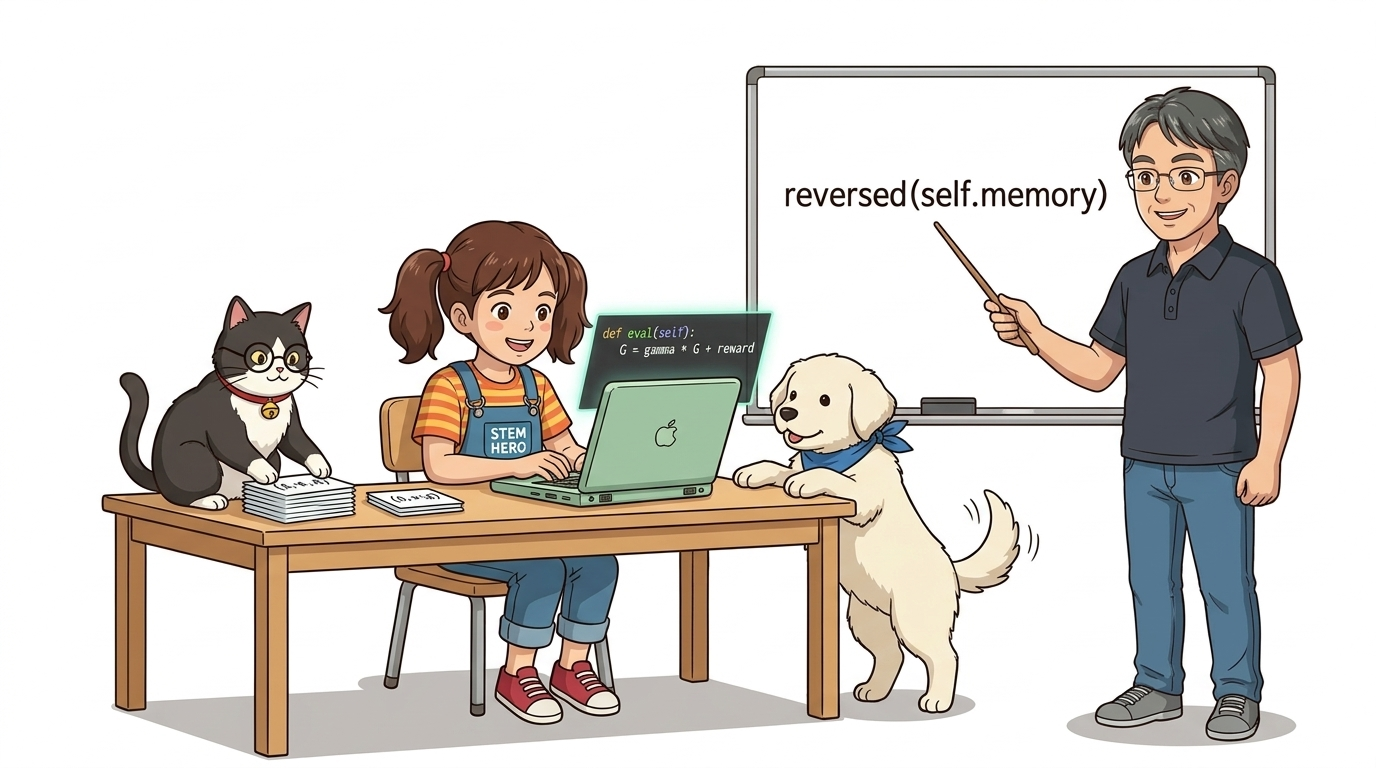
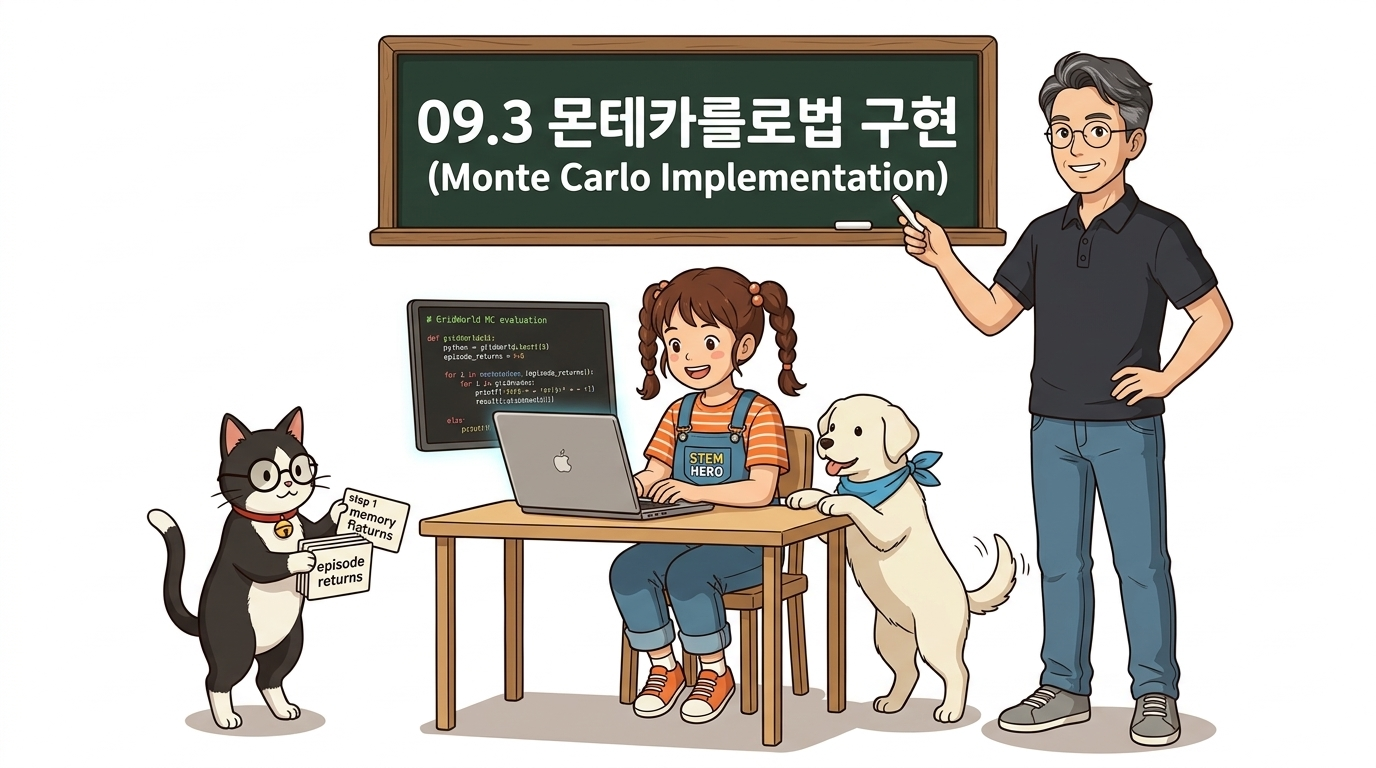
feat(ch09): add prominent chapter titles to all 16:9 covers and insert into index.md (9.0~9.6)

diff --git a/docs/09_몬테카를로법/9_0_수학적기초/index.html b/docs/09_몬테카를로법/9_0_수학적기초/index.html
@@ -631,6 +631,8 @@
         <div class="bd-content ps-lg-4">
             <h1 id="090-몬테카를로법의-수학적-기초와-역사적-유래">09.0 몬테카를로법의 수학적 기초와 역사적 유래</h1>
 
+<p><img src="./9_0_수학적기초.png" alt="09.0 몬테카를로법의 수학적 기초와 역사적 유래" /></p>
+
 <p><img src="./img/01_monte_carlo_history_lecture.png" alt="몬테카를로 역사 인트로" />
 <strong>그림 09-0-1</strong> 이호진 교수님의 몬테카를로법 역사와 원리 특강 — 조교 지니와 함께 룰렛과 컴퓨터의 만남을 강의하고 경청하는 도로시와 토토 (16:9 와이드)</p>
 

diff --git a/docs/09_몬테카를로법/9_2_몬테카를로법으로_정책_평가하기/index.html b/docs/09_몬테카를로법/9_2_몬테카를로법으로_정책_평가하기/index.html
@@ -631,6 +631,8 @@
         <div class="bd-content ps-lg-4">
             <h1 id="092-몬테카를로법으로-정책-평가하기">09.2 몬테카를로법으로 정책 평가하기</h1>
 
+<p><img src="./9_2_몬테카를로법으로_정책_평가하기.png" alt="09.2 몬테카를로법으로 정책 평가하기" /></p>
+
 <p><img src="./img/01_stepping_stones_policy_evaluation.png" alt="몬테카를로 정책 평가 인트로" />
 <strong>그림 09-2-1</strong> 징검다리를 건너가며 에피소드를 완주하고 각 칸의 상태 가치 카드 V(s)를 갱신해나가는 도로시와 연구실 친구들 (16:9 와이드)</p>
 

diff --git a/docs/09_몬테카를로법/9_4_몬테카를로법으로_정책_제어하기/index.html b/docs/09_몬테카를로법/9_4_몬테카를로법으로_정책_제어하기/index.html
@@ -631,6 +631,8 @@
         <div class="bd-content ps-lg-4">
             <h1 id="094-몬테카를로법으로-정책-제어하기">09.4 몬테카를로법으로 정책 제어하기</h1>
 
+<p><img src="./9_4_몬테카를로법으로_정책_제어하기.png" alt="09.4 몬테카를로법으로 정책 제어하기" /></p>
+
 <p><img src="./img/01_mc_control_intro.png" alt="몬테카를로 정책 제어 인트로" />
 <strong>그림 09-4-1</strong> 탐색-이용(Exploration-Exploitation) 갈림길에서 지니의 입실론 주사위 마법을 보며 나아갈 길을 결정하는 도로시</p>
 

diff --git a/docs/09_몬테카를로법/9_5_오프-정책과_중요도_샘플링/index.html b/docs/09_몬테카를로법/9_5_오프-정책과_중요도_샘플링/index.html
@@ -631,6 +631,8 @@
         <div class="bd-content ps-lg-4">
             <h1 id="095-오프-정책과-중요도-샘플링">09.5 오프-정책과 중요도 샘플링</h1>
 
+<p><img src="./9_5_오프-정책과_중요도_샘플링.png" alt="09.5 오프-정책과 중요도 샘플링" /></p>
+
 <p><img src="./img/01_off_policy_intro.png" alt="중요도 샘플링 인트로" />
 <strong>그림 09-5-1</strong> 탐험 지도(Behavior Policy)와 타깃 지도(Target Policy)의 확률 비율을 마법 저울에 올리고 오프-정책을 계산하는 지니와 도로시</p>
 

diff --git a/docs/09_몬테카를로법/9_1_몬테카를로법_기초/index.html b/docs/09_몬테카를로법/9_1_몬테카를로법_기초/index.html
@@ -631,6 +631,8 @@
         <div class="bd-content ps-lg-4">
             <h1 id="091-몬테카를로법-기초">09.1 몬테카를로법 기초</h1>
 
+<p><img src="./9_1_몬테카를로법_기초.png" alt="09.1 몬테카를로법 기초" /></p>
+
 <p><img src="./img/01_model_known_vs_unknown.png" alt="환경 모델의 비교" />
 <strong>그림 09-1-1</strong> 투명한 규칙으로 시뮬레이션 가능한 알려진 환경 모델과 수식을 알 수 없어 직접 부딪혀야 하는 블랙박스 미지 모델의 비교 (16:9 와이드)</p>
 

diff --git a/docs/09_몬테카를로법/9_3_몬테카를로법_구현/index.html b/docs/09_몬테카를로법/9_3_몬테카를로법_구현/index.html
@@ -631,6 +631,8 @@
         <div class="bd-content ps-lg-4">
             <h1 id="093-몬테카를로법-구현">09.3 몬테카를로법 구현</h1>
 
+<p><img src="./9_3_몬테카를로법_구현.png" alt="09.3 몬테카를로법 구현" /></p>
+
 <p><img src="./img/01_mc_implementation_intro.png" alt="몬테카를로 구현 인트로" />
 <strong>그림 09-3-1</strong> 그리드월드 조작 조종 패드를 쥐고 모니터를 보며, RandomAgent와 eval() 코드 연동을 실행하는 도로시와 지니</p>
 

diff --git a/docs/09_몬테카를로법/9_6_정리/index.html b/docs/09_몬테카를로법/9_6_정리/index.html
@@ -631,6 +631,8 @@
         <div class="bd-content ps-lg-4">
             <h1 id="096-정리">09.6 정리</h1>
 
+<p><img src="./9_6_정리.png" alt="09.6 정리" /></p>
+
 <p><img src="./img/01_ch9_grand_summary_intro.png" alt="9장 정리 인트로" />
 <strong>그림 09-6-1</strong> 몬테카를로 정상에 올라 경험 학습의 전체 지도를 벅찬 감동으로 내려다보는 도로시, 지니, 토토</p>
 

diff --git a/src/09_몬테카를로법/9_0_수학적기초/index.md b/src/09_몬테카를로법/9_0_수학적기초/index.md
@@ -5,6 +5,8 @@ title: "09.0 몬테카를로법의 수학적 기초와 역사적 유래"
 
 # 09.0 몬테카를로법의 수학적 기초와 역사적 유래
 
+![09.0 몬테카를로법의 수학적 기초와 역사적 유래](./9_0_수학적기초.png)
+
 ![몬테카를로 역사 인트로](./img/01_monte_carlo_history_lecture.png)
 **그림 09-0-1** 이호진 교수님의 몬테카를로법 역사와 원리 특강 — 조교 지니와 함께 룰렛과 컴퓨터의 만남을 강의하고 경청하는 도로시와 토토 (16:9 와이드)
 

diff --git a/src/09_몬테카를로법/9_2_몬테카를로법으로_정책_평가하기/index.md b/src/09_몬테카를로법/9_2_몬테카를로법으로_정책_평가하기/index.md
@@ -5,6 +5,8 @@ title: "09.2 몬테카를로법으로 정책 평가하기"
 
 # 09.2 몬테카를로법으로 정책 평가하기
 
+![09.2 몬테카를로법으로 정책 평가하기](./9_2_몬테카를로법으로_정책_평가하기.png)
+
 ![몬테카를로 정책 평가 인트로](./img/01_stepping_stones_policy_evaluation.png)
 **그림 09-2-1** 징검다리를 건너가며 에피소드를 완주하고 각 칸의 상태 가치 카드 V(s)를 갱신해나가는 도로시와 연구실 친구들 (16:9 와이드)
 

diff --git a/src/09_몬테카를로법/9_4_몬테카를로법으로_정책_제어하기/index.md b/src/09_몬테카를로법/9_4_몬테카를로법으로_정책_제어하기/index.md
@@ -5,6 +5,8 @@ title: "09.4 몬테카를로법으로 정책 제어하기"
 
 # 09.4 몬테카를로법으로 정책 제어하기
 
+![09.4 몬테카를로법으로 정책 제어하기](./9_4_몬테카를로법으로_정책_제어하기.png)
+
 ![몬테카를로 정책 제어 인트로](./img/01_mc_control_intro.png)
 **그림 09-4-1** 탐색-이용(Exploration-Exploitation) 갈림길에서 지니의 입실론 주사위 마법을 보며 나아갈 길을 결정하는 도로시
 

diff --git a/src/09_몬테카를로법/9_5_오프-정책과_중요도_샘플링/index.md b/src/09_몬테카를로법/9_5_오프-정책과_중요도_샘플링/index.md
@@ -5,6 +5,8 @@ title: "09.5 오프-정책과 중요도 샘플링"
 
 # 09.5 오프-정책과 중요도 샘플링
 
+![09.5 오프-정책과 중요도 샘플링](./9_5_오프-정책과_중요도_샘플링.png)
+
 ![중요도 샘플링 인트로](./img/01_off_policy_intro.png)
 **그림 09-5-1** 탐험 지도(Behavior Policy)와 타깃 지도(Target Policy)의 확률 비율을 마법 저울에 올리고 오프-정책을 계산하는 지니와 도로시
 

diff --git a/src/09_몬테카를로법/9_1_몬테카를로법_기초/index.md b/src/09_몬테카를로법/9_1_몬테카를로법_기초/index.md
@@ -5,6 +5,8 @@ title: "09.1 몬테카를로법 기초"
 
 # 09.1 몬테카를로법 기초
 
+![09.1 몬테카를로법 기초](./9_1_몬테카를로법_기초.png)
+
 ![환경 모델의 비교](./img/01_model_known_vs_unknown.png)
 **그림 09-1-1** 투명한 규칙으로 시뮬레이션 가능한 알려진 환경 모델과 수식을 알 수 없어 직접 부딪혀야 하는 블랙박스 미지 모델의 비교 (16:9 와이드)
 
